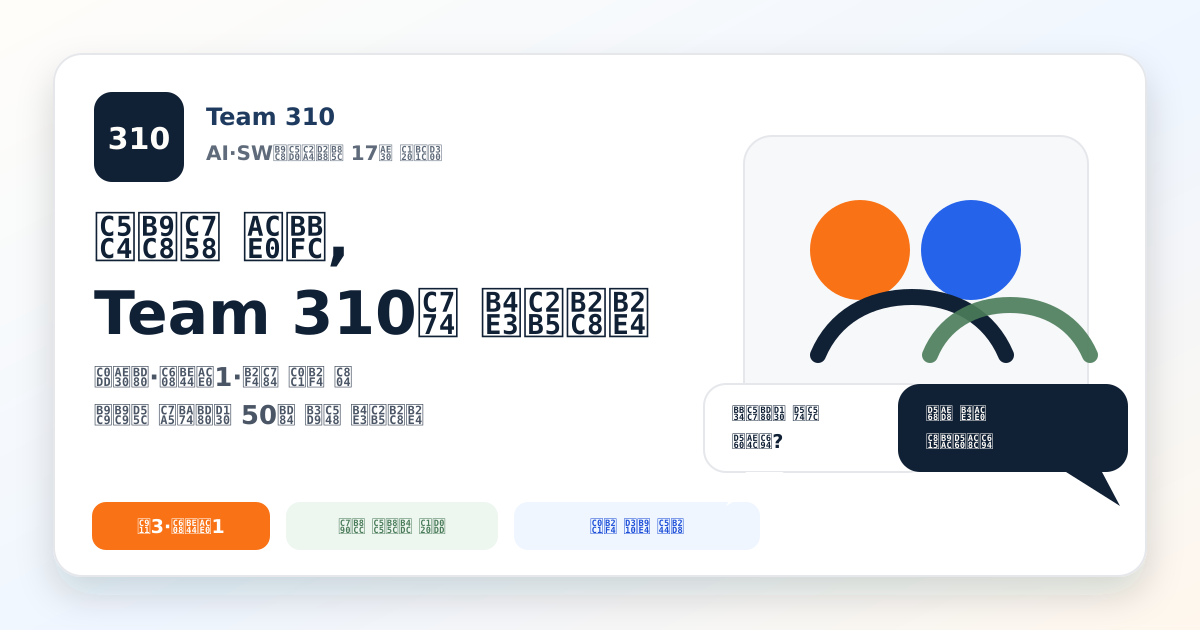
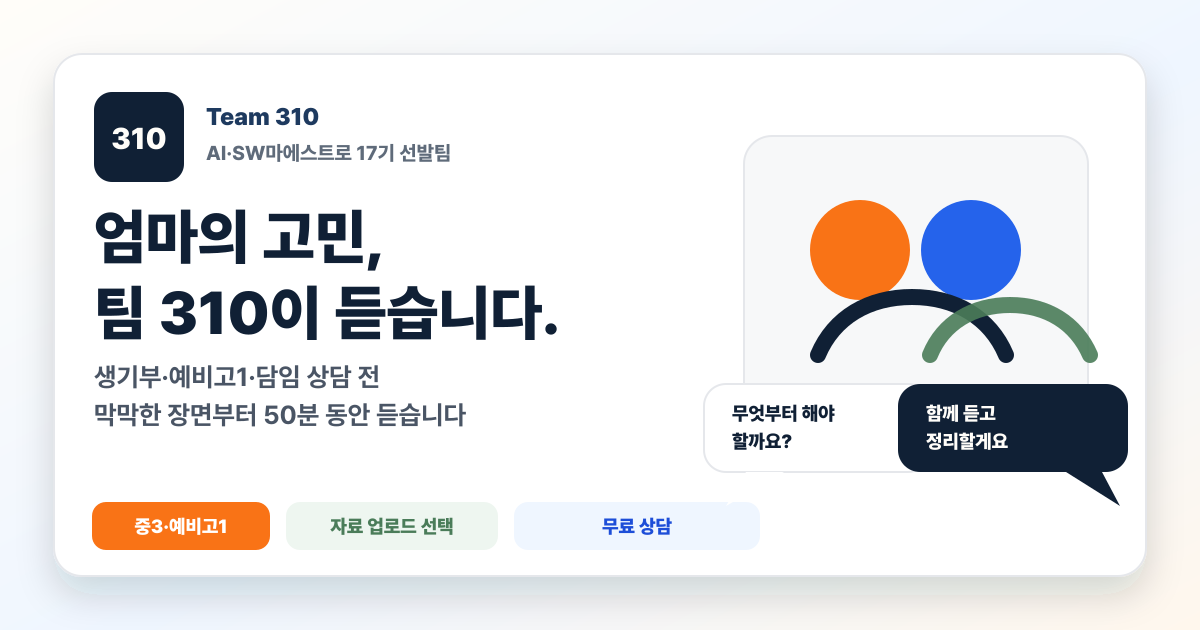
Refine parent-focused landing copy

diff --git a/src/data/landingContent.js b/src/data/landingContent.js
@@ -7,7 +7,6 @@ import {
   CircleDollarSign,
   ClipboardCheck,
   FileCheck2,
-  Gift,
   HeartHandshake,
   LockKeyhole,
   MessageCircleQuestion,
@@ -81,14 +80,14 @@ export const heroTopics = [
 export const heroTrustItems = [
   { label: "중3·예비고1 고민 중심", icon: UsersRound },
   { label: "자료 업로드 선택", icon: ShieldCheck },
-  { label: "상담 판매가 아닌 인터뷰", icon: MessageCircleQuestion },
+  { label: "무료 상담 인터뷰", icon: CircleDollarSign },
   { label: "AI·SW마에스트로 17기", icon: BadgeCheck },
 ];
 
 export const quickFacts = [
   { value: "중3", label: "예비고1 전환기 학부모 고민 중심" },
-  { value: "50분", label: "전화·Zoom·대면 선택" },
-  { value: "100+", label: "학부모·학생 문제 인터뷰 기반" },
+  { value: "무료", label: "전화·Zoom·대면 50분 상담" },
+  { value: "100명", label: "학부모 목소리를 듣는 것이 목표" },
   { value: "선택", label: "녹음·자료 공유 모두 동의 후 진행" },
 ];
 
@@ -113,7 +112,7 @@ export const socialMissionItems = [
 export const asmProofItems = [
   "AI·SW마에스트로 17기 선발팀",
   "지원서·코딩 테스트·심층면접 기반 선발",
-  "학부모·학생 100+ 인터뷰로 문제 검증 중",
+  "100명의 학부모 목소리를 듣는 것을 목표로 검증 중",
 ];
 
 export const asmBrandLogo = {
@@ -212,6 +211,21 @@ export const painPoints = [
       "원서·면접·자소서 준비에서 놓치고 싶지 않은 기준",
     ],
   },
+  {
+    id: "other",
+    icon: HeartHandshake,
+    tab: "그 밖에 고민",
+    title: "딱 맞는 항목이 없어도 괜찮아요",
+    quote:
+      "위에 있는 고민은 아닌 것 같은데, 아이 문제로 계속 마음에 걸리는 게 있어요.",
+    summary:
+      "생기부, 예비고1, 담임 상담, 특목·자사 준비로 딱 나뉘지 않는 고민도 편하게 들려주세요.",
+    wants: [
+      "요즘 가장 자주 떠오르는 걱정",
+      "누구에게 물어봐야 할지 애매했던 질문",
+      "아이와 이야기할 때 조심스럽거나 막히는 지점",
+    ],
+  },
 ];
 
 export const interviewSteps = [
@@ -236,7 +250,7 @@ export const safetyNotes = [
   { label: "자료 업로드 선택", icon: FileCheck2 },
   { label: "녹음은 동의 시에만", icon: Mic },
   { label: "대면·전화·Zoom 선택", icon: Video },
-  { label: "문화상품권 제공", icon: Gift },
+  { label: "무료 상담", icon: CircleDollarSign },
 ];
 
 export const teamMembers = [
@@ -252,9 +266,9 @@ export const teamMembers = [
     photo: sejongProfile,
     photoAlt: "꽃이 핀 야외 배경 앞에 선 박세종",
     details: [
-      "전) 상상코칭 입시컨설턴트",
-      "박문호의자연과학세상 이사",
-      "월드유스랠리 12개국 국제캠프 PM",
+      "전) 상상코칭 헤드 입시컨설턴트",
+      "전) 국제캠프(12개국) 총괄 PM",
+      "현) 박문호의 자연과학세상 이사",
     ],
   },
   {
@@ -315,8 +329,8 @@ export const trustItems = [
     icon: BadgeCheck,
   },
   {
-    title: "100+ 인터뷰 기반 문제 검증",
-    text: "2026년 3월부터 학부모·학생 인터뷰를 진행하며 정보가 아니라 판단 기준이 부족한 순간을 확인하고 있습니다.",
+    title: "100명의 학부모 목소리를 듣는 목표",
+    text: "2026년 3월부터 학부모·학생 인터뷰를 진행하며, 100명의 학부모 목소리를 모아 판단 기준이 부족한 순간을 확인하고 있습니다.",
     icon: Brain,
   },
   {
@@ -395,7 +409,6 @@ export const offlineLocation = {
   address: "서울특별시 마포구 마포대로 89 포스트타워 7층, 12층",
   postalCode: "04156",
   transit: "공덕역 1번 출구 앞, 도보 약 300m",
-  note: "오프라인 인터뷰는 신청 후 일정과 장소를 확정한 경우에만 진행합니다.",
   kakaoMapUrl:
     "https://map.kakao.com/link/search/%EC%84%9C%EC%9A%B8%ED%8A%B9%EB%B3%84%EC%8B%9C%20%EB%A7%88%ED%8F%AC%EA%B5%AC%20%EB%A7%88%ED%8F%AC%EB%8C%80%EB%A1%9C%2089%20%ED%8F%AC%EC%8A%A4%ED%8A%B8%ED%83%80%EC%9B%8C",
   kakaoRouteUrl:

diff --git a/src/App.css b/src/App.css
@@ -209,6 +209,10 @@ img {
   text-wrap: balance;
 }
 
+.hero-section h1 span {
+  display: block;
+}
+
 .hero-rotator {
   display: flex;
   min-height: 58px;
@@ -376,7 +380,8 @@ img {
 }
 
 .section-intro {
-  max-width: 720px;
+  width: 100%;
+  max-width: 100%;
   margin-bottom: 38px;
 }
 
@@ -387,11 +392,13 @@ img {
   color: var(--deep-navy);
   font-size: clamp(26px, 3.8vw, 36px);
   line-height: 1.35;
+  text-wrap: balance;
 }
 
 .section-intro p:not(.eyebrow),
 .apply-copy p,
 .closing-section p {
+  max-width: 760px;
   margin: 14px 0 0;
   color: var(--text-secondary);
   font-size: 17px;
@@ -1431,7 +1438,7 @@ img {
 }
 
 .closing-content {
-  max-width: 760px;
+  max-width: 1040px;
 }
 
 .closing-section .eyebrow {
@@ -1443,6 +1450,7 @@ img {
 }
 
 .closing-section p {
+  max-width: 1040px;
   color: rgba(255, 255, 255, 0.82);
   margin-bottom: 28px;
 }

diff --git a/src/components/Hero.jsx b/src/components/Hero.jsx
@@ -1,5 +1,5 @@
 import { AnimatePresence, motion, useReducedMotion } from "framer-motion";
-import { ArrowDown, ArrowRight, Gift, ShieldCheck, TimerReset } from "lucide-react";
+import { ArrowDown, ArrowRight, CircleDollarSign, ShieldCheck, TimerReset } from "lucide-react";
 import { useEffect, useState } from "react";
 import { heroTopics, heroTrustItems, quickFacts } from "../data/landingContent";
 import ApplyLink from "./ApplyLink";
@@ -35,7 +35,8 @@ export default function Hero() {
           animate={reduceMotion ? undefined : { opacity: 1, y: 0 }}
           transition={{ duration: 0.24, delay: 0.04, ease: [0.2, 0.8, 0.2, 1] }}
         >
-          엄마의 고민, Team 310이 듣습니다.
+          <span>엄마의 고민,</span>
+          <span>팀 310이 듣습니다.</span>
         </motion.h1>
 
         <motion.div
@@ -68,9 +69,6 @@ export default function Hero() {
         >
           AI·SW마에스트로 17기 선발 청년들이 중3 학부모님의 생기부,
           예비고1 첫 90일, 담임 상담 전 고민을 먼저 듣습니다.
-          <br />
-          상담을 판매하려는 자리가 아니라, 내 아이 기준의 다음 질문을 함께
-          이해하기 위한 인터뷰입니다.
         </motion.p>
 
         <motion.div
@@ -132,8 +130,8 @@ export default function Hero() {
           자료 선택
         </span>
         <span>
-          <Gift size={17} aria-hidden="true" />
-          문화상품권
+          <CircleDollarSign size={17} aria-hidden="true" />
+          무료 상담
         </span>
       </div>
     </section>

diff --git a/src/components/ApplySection.jsx b/src/components/ApplySection.jsx
@@ -123,10 +123,6 @@ function TallyApplyCard() {
         <ExternalLink size={26} aria-hidden="true" />
       </div>
       <h3>Tally 신청 폼으로 이동합니다</h3>
-      <p>
-        편한 시간대와 가장 가까운 고민을 남겨주시면 Team 310이 확인 후
-        가능한 일정을 조율해 연락드립니다.
-      </p>
       <a className="button primary-button" href={tallyPublicUrl} target="_blank" rel="noreferrer">
         신청 폼 열기
         <ExternalLink size={19} aria-hidden="true" />
@@ -134,7 +130,7 @@ function TallyApplyCard() {
       <div className="tally-link-meta">
         <span>학부모님 혼자 가능</span>
         <span>자료 업로드 선택</span>
-        <span>응답 후 일정 조율</span>
+        <span>무료 상담</span>
       </div>
     </div>
   );
@@ -149,10 +145,6 @@ export default function ApplySection() {
         <Reveal className="apply-copy">
           <p className="eyebrow">Apply</p>
           <h2 id="apply-title">가장 가까운 고민으로 50분 인터뷰를 신청해 주세요</h2>
-          <p>
-            완벽하게 정리해서 오지 않아도 괜찮습니다. 지금 가장 마음에 걸리는
-            장면 한 가지면 충분합니다.
-          </p>
 
           <div className="apply-summary">
             {applyFields.map((field, index) => {

diff --git a/index.html b/index.html
@@ -6,7 +6,7 @@
     <meta name="theme-color" content="#1E3A5F" />
     <meta
       name="description"
-      content="중3·예비고1 학부모님의 생기부, 첫 시험, 담임 상담 전 고민을 Team 310이 50분 동안 듣습니다. 자료 업로드는 선택이고 상담 판매가 아닌 리서치 인터뷰입니다."
+      content="중3·예비고1 학부모님의 생기부, 첫 시험, 담임 상담 전 고민을 팀 310이 50분 동안 듣습니다. 자료 업로드는 선택이고 무료 상담 형식의 리서치 인터뷰입니다."
     />
     <meta
       name="keywords"
@@ -14,7 +14,7 @@
     />
     <meta property="og:type" content="website" />
     <meta property="og:site_name" content="Team 310" />
-    <meta property="og:title" content="엄마의 고민, Team 310이 듣습니다" />
+    <meta property="og:title" content="엄마의 고민, 팀 310이 듣습니다." />
     <meta
       property="og:description"
       content="생기부를 봐도 막막하고 예비고1 첫 90일이 불안한 중3 학부모님의 이야기를 듣는 50분 인터뷰입니다."
@@ -28,7 +28,7 @@
     <meta property="og:locale" content="ko_KR" />
     <meta name="twitter:card" content="summary_large_image" />
     <meta name="twitter:image" content="https://team310.kr/og-image.png" />
-    <title>엄마의 고민, Team 310이 듣습니다</title>
+    <title>엄마의 고민, 팀 310이 듣습니다.</title>
     <link rel="icon" type="image/svg+xml" href="/favicon.svg" />
     <link rel="icon" type="image/png" sizes="32x32" href="/favicon-32x32.png" />
     <link rel="apple-touch-icon" href="/apple-touch-icon.png" />

diff --git a/src/components/MissionSection.jsx b/src/components/MissionSection.jsx
@@ -9,10 +9,6 @@ export default function MissionSection() {
         <Reveal className="section-intro">
           <p className="eyebrow">AI for parents</p>
           <h2 id="mission-title">AI는 엄마의 고민을 정리하기 위한 도구입니다</h2>
-          <p>
-            기술을 앞세우기보다, 내 아이의 누적된 맥락을 놓치지 않도록 돕는
-            방향으로 검증하고 있습니다.
-          </p>
         </Reveal>
 
         <div className="mission-grid">

diff --git a/src/components/TrustSection.jsx b/src/components/TrustSection.jsx
@@ -8,10 +8,6 @@ export default function TrustSection() {
         <Reveal className="section-intro">
           <p className="eyebrow">안심 정보</p>
           <h2 id="trust-title">믿고 이야기할 수 있도록 약속을 먼저 보여드립니다</h2>
-          <p>
-            인터뷰는 학부모님의 민감한 고민을 다루기 때문에, 선발 이력보다
-            진행 원칙과 개인정보 기준을 더 분명히 설명합니다.
-          </p>
         </Reveal>
 
         <div className="trust-grid">

diff --git a/src/components/OfflineLocationSection.jsx b/src/components/OfflineLocationSection.jsx
@@ -81,7 +81,7 @@ export default function OfflineLocationSection() {
             {offlineLocation.title}
           </span>
           <h3 id="offline-location-title">{offlineLocation.name}</h3>
-          <p>{offlineLocation.note}</p>
+          {offlineLocation.note ? <p>{offlineLocation.note}</p> : null}
 
           <dl className="location-detail-list">
             <div>

diff --git a/src/assets/images/mentors/README.md b/src/assets/images/mentors/README.md
@@ -1,0 +1,16 @@
+# Mentor Photo Filenames
+
+원본 멘토 사진은 아래 이름으로 넣어주세요.
+
+```text
+src/assets/images/mentors/mentor-sehwan.jpg  # 고세환 멘토
+src/assets/images/mentors/mentor-jaehong.jpg # 조재홍 멘토
+src/assets/images/mentors/mentor-soonyup.jpg # 홍순엽 멘토
+```
+
+권장 비율은 정사각형 또는 세로형입니다.
+
+```text
+1200x1200 이상
+1200x1500 이상
+```

diff --git a/src/assets/images/README.md b/src/assets/images/README.md
@@ -21,9 +21,9 @@ src/assets/images/team/originals/semin-portrait-01-original.jpg
 Suggested filenames:
 
 ```text
-src/assets/images/mentors/mentor-jaehong.jpg
-src/assets/images/mentors/mentor-sehwan.jpg
-src/assets/images/mentors/mentor-soonyup.jpg
+src/assets/images/mentors/mentor-sehwan.jpg  # 고세환 멘토
+src/assets/images/mentors/mentor-jaehong.jpg # 조재홍 멘토
+src/assets/images/mentors/mentor-soonyup.jpg # 홍순엽 멘토
 ```
 
 ## Size Guide